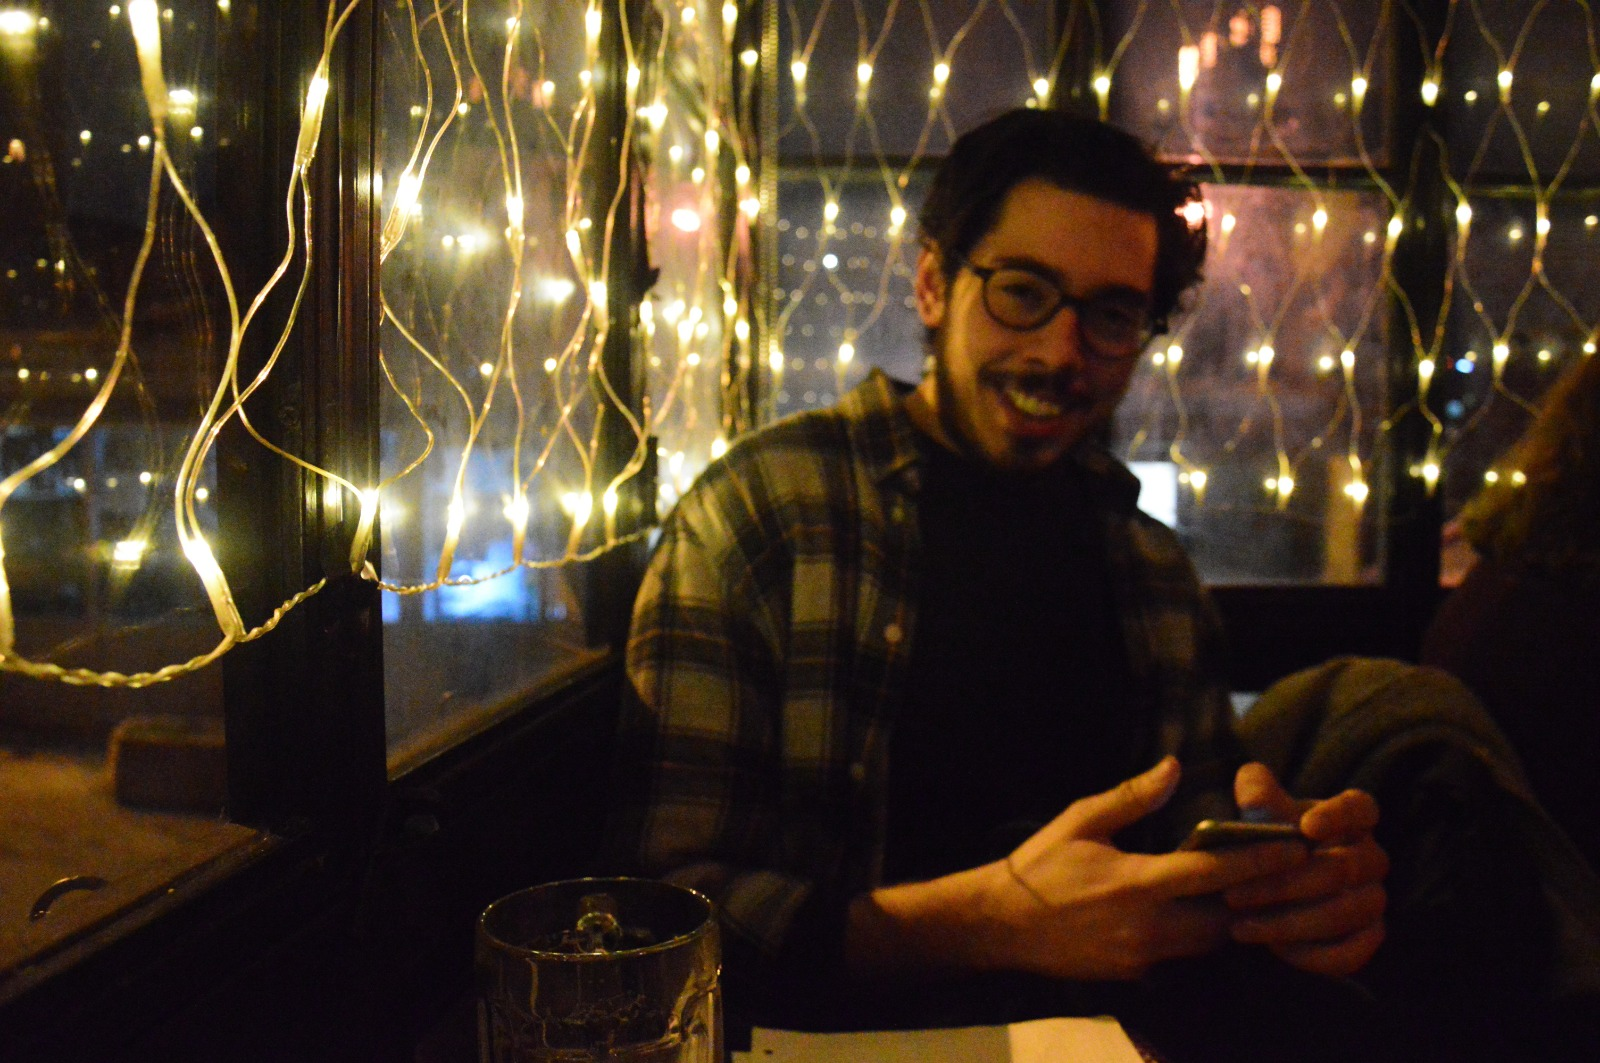
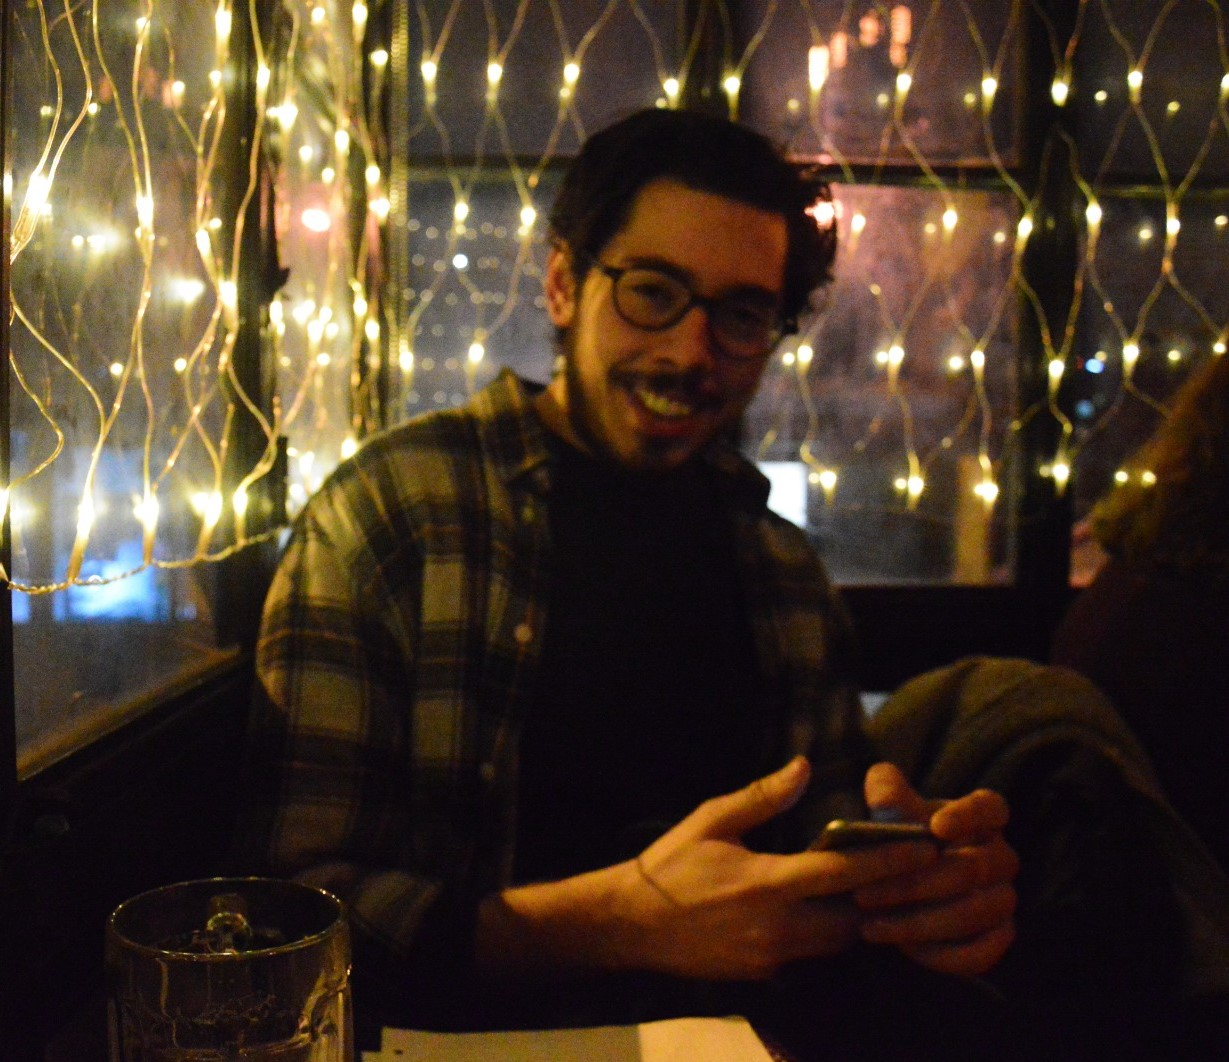
index.html

diff --git a/index.html b/index.html
@@ -35,7 +35,7 @@ try {
 <h1>Oğuz Gürerk</h1>
 <h2>General Information </h2>
 <table class="imgtable"><tr><td>
-<img src="profile_pic.jpg" alt="PP" width="300px" height="300px" />&nbsp;</td>
+<img src="profile_pic.jpg" alt="PP" width="400px" height="300px" />&nbsp;</td>
 <td align="left"><p>Oğuz Gürerk<br />
 <a href="http://www.math.boun.edu.tr/">Department of Mathematics</a> and <a href="http://econ.boun.edu.tr">Department of Economics</a><br />
 <a href="http://www.boun.edu.tr/en-US/Index">Bogazici University</a><br />
